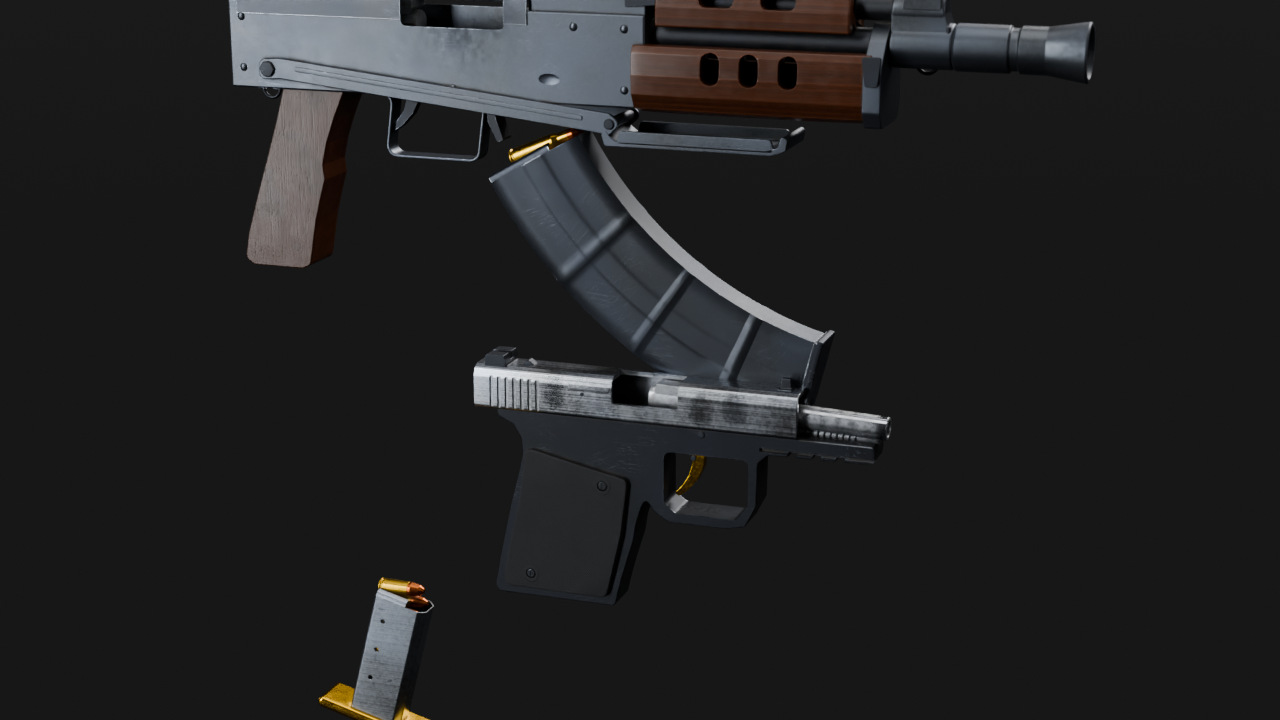
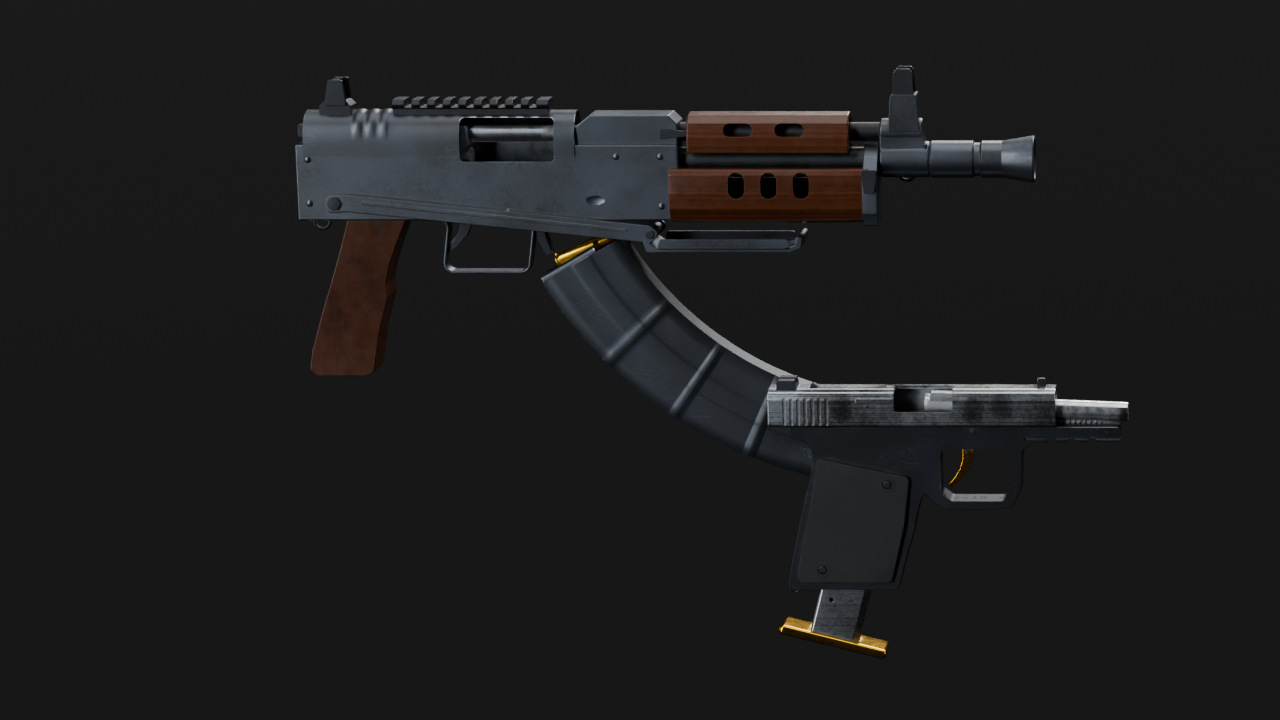
art: weapons round 2 (re-baked sets, all previews: chopper/nine hero and first-person, parts, wire, enemy), SMG magazine without the lens slot, progress notes
Claude-Session: https://claude.ai/code/session_01HkcHdD7NbyxwnFfuuSpZY4

diff --git a/art/blender/PROGRESS.md b/art/blender/PROGRESS.md
@@ -139,15 +139,20 @@ Decisions: textures are authored in UV space with numpy from baked geometry maps
 baking node trees; skinned assets export through mi/rig.py (export._Stubs, all bones incl. sockets) and are proven
 by re-importing the GLB in a fresh process and posing every bone.
 
-## Status
-- [x] mi/rig.py committed (armature from pivots, rigid tagging, skinned GLB, inspect_glb, verify by re-import)
-- [x] CHOPPER (57k tris) + magazine/top round, 4K/2K sets, exported, re-import proof passes (4 poses)
-- [x] NINE (37k tris) + magazine/top round, 4K/2K sets, exported, re-import proof passes (5 poses)
-- [x] casings (596 / 548 tris, 512), Goon SMG (12.8k + magazine, 2K, lens slot), pipe (3k, 1K): exported
-- [x] previews round 0: chopper_hero/_fp, nine_hero/_fp; README rows (weapons, rig, texpaint)
-- [ ] round 1 (running): re-bake all with shorter, sparser scratches, handguard swell, curved NINE grip, FP on the
-      day rig with an urban plate; renders chopper_hero/_fp, nine_hero, enemy, parts, wire
-Next step: look at the round-1 pictures, fix the worst fault, one last render (render budget: 11 of 12 used after round 1).
+## State at hand-off: task complete (render budget used: 12 of 12)
+- Exported, validated, manifest current: SK_Chopper 72.9k tris (4K set Chopper), SK_Nine 35.8k (4K set Nine), both
+  proven by re-import in a fresh process (every bone posed, max error 1e-8 m, joint axes = gun axes, SK_*.glb.verify.json);
+  SM_Weapon_ChopperMagazine 8.5k + _TopRound 3.2k (2K), SM_Weapon_NineMagazine 13.2k + _TopRound 2.7k (2K),
+  SM_Weapon_CasingRifle 596 / _CasingPistol 548 (512), SM_Weapon_GoonSMG 12.8k + _Magazine 0.8k (2K, lens slot), SM_Weapon_GoonPipe 3.0k (1K).
+- Previews: weapons_chopper_hero/_fp, weapons_nine_hero/_fp (fp rendered before round 1: older grip outline and set),
+  weapons_parts + weapons_wire (one wide render split in two), weapons_enemy. Review rounds: (1) scratches shorter and
+  sparser, handguard swell, NINE grip curves, hero framing, FP on the day rig with an urban plate instead of a column
+  shadow; (2) parts/wire framing.
+- Known weaknesses: NINE grip reads as a large flat slab (brief's 76 mm butt); ngon caps give long slivers in the wire;
+  parts picture overlaps the rocked magazine and the NINE; wood handguards are still blocky in profile; no follower model
+  in the CHOPPER magazine (the second round fills the lips); SMG is mid-detail (12.8k of 25k).
+- Exact next step if resumed: give the NINE grip finger grooves + stippled front strap, re-bake Nine
+  (`build.py build weapons --only nine --bake --rebake-unique --export`), then re-render weapons_nine_hero/_fp.
 
 ---------------------------------------------------------------------------------------------------------------
 # Vehicles (assets/vehicles.py), vehicle artist
